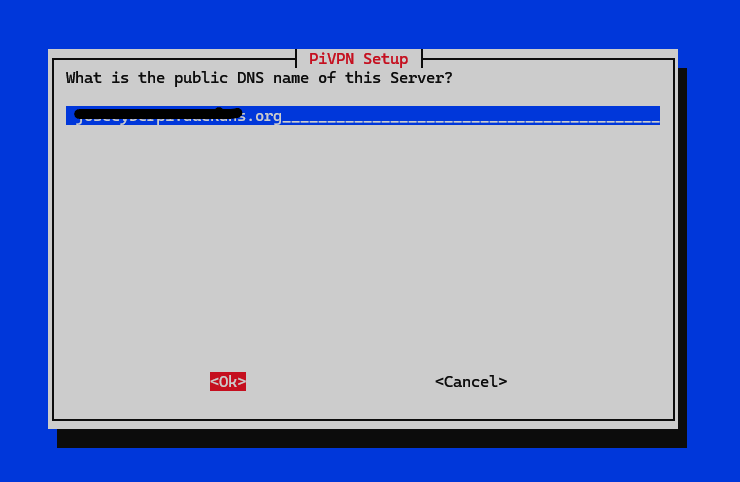
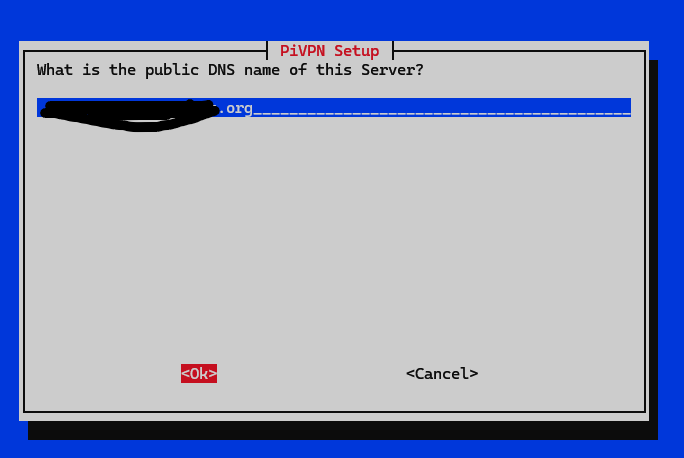
First-person voice pass on Pi-hole/WireGuard sections, fix DuckDNS screenshot redaction

Changed region(s): [[0.0307, 0.0917, 0.9825, 0.9782], [0.5833, 0.7642, 0.7061, 0.8253]]

diff --git a/README.md b/README.md
@@ -147,11 +147,11 @@ Also hit a gotcha with Imager's advanced settings. Current Raspberry Pi OS build
 
 ## Installing Pi-hole
 
-Connected over SSH and updated the system first:
+I connected over SSH and updated the system first:
 
 ![SSH in and update](screenshots/01-ssh-in-and-update.png)
 
-Ran Pi-hole's install script:
+I ran Pi-hole's install script:
 
 ```
 curl -sSL https://install.pi-hole.net | sudo bash
@@ -161,33 +161,33 @@ curl -sSL https://install.pi-hole.net | sudo bash
 
 ![Pi-hole welcome screen](screenshots/03-pihole-welcome.png)
 
-Picked Cloudflare as the upstream DNS:
+I picked Cloudflare as the upstream DNS:
 
 ![Choosing Cloudflare](screenshots/04-choosing-cloudflare.png)
 
-Left the default StevenBlack blocklist checked:
+I left the default StevenBlack blocklist checked:
 
 ![StevenBlack blocklist](screenshots/05-stevenblack-blocklist.png)
 
-Turned on query logging so I can actually watch DNS lookups happen instead of guessing:
+I turned on query logging so I can actually watch DNS lookups happen instead of guessing:
 
 ![Enable query logging](screenshots/06-enable-query-logging.png)
 
-Left privacy mode on "Show everything":
+I left privacy mode on "Show everything":
 
 ![Privacy mode](screenshots/07-privacy-mode.png)
 
-Installer picked up my network interface and IP, pulled Pi-hole's repos, installed FTL, landed on the login screen:
+The installer picked up my network interface and IP, pulled Pi-hole's repos, installed FTL, and landed on the login screen:
 
 ![Pi-hole login](screenshots/08-pihole-login.png)
 
-Pointed my PC's DNS at the Pi. Query log started filling up right away, some blocked, most just resolved normal.
+I pointed my PC's DNS at the Pi. Query log started filling up right away, some blocked, most just resolved normal.
 
-Pointed the router's DNS at the Pi too, not just my PC. Whole house is covered now.
+I pointed the router's DNS at the Pi too, not just my PC. Whole house is covered now.
 
 ## Setting up WireGuard
 
-Installed PiVPN to handle it:
+I installed PiVPN to handle it:
 
 ```
 curl -L https://install.pivpn.io | bash
@@ -195,27 +195,27 @@ curl -L https://install.pivpn.io | bash
 
 ![Installing WireGuard](screenshots/09-installing-wireguard.png)
 
-It asked if the Pi's IP was reserved through DHCP reservation on the router. Went looking on the Verizon admin page, the Devices menu only shows connection stats, no reservation option there. Skipped it since the Pi stays connected most of the time anyway.
+It asked if my Pi's IP was reserved through DHCP reservation on the router. I went looking on the Verizon admin page, the Devices menu only shows connection stats, no reservation option there. I skipped it since the Pi stays connected most of the time anyway.
 
 ![DHCP reservation prompt](screenshots/10-dhcp-reservation.png)
 
-Picked WireGuard over OpenVPN.
+I picked WireGuard over OpenVPN.
 
 ![Choosing WireGuard](screenshots/11-choose-wireguard.png)
 
-It found the Pi-hole install already on the box and asked if VPN clients should use it as DNS too. Said yes, so ad blocking still works on my phone when I'm connected remotely.
+It found the Pi-hole install already on the box and asked if VPN clients should use it as DNS too. I said yes, so ad blocking still works on my phone when I'm connected remotely.
 
 ![Pi-hole DNS for VPN clients](screenshots/12-pihole-dns-question.png)
 
-Asked whether clients connect using a public IP or a DNS name. Verizon residential doesn't hand out a static IP, so went with a DNS name instead.
+It asked whether clients connect using a public IP or a DNS name. My Verizon connection doesn't come with a fixed public IP, it can change on its own without me touching anything. So I went with a DNS name instead.
 
 ![Public IP or DNS name](screenshots/13-public-ip-or-dns.png)
 
-Set up a free DuckDNS address for that.
+I set up a free DuckDNS address for that. There's a small script running on the Pi that checks in with DuckDNS and tells it my current IP, so my phone can always find my house even if my IP changes, without me having to do anything.
 
 ![DuckDNS setup](screenshots/14-duckdns-setup.png)
 
-Turned on unattended security upgrades, since this Pi is reachable from outside now.
+I turned on unattended security upgrades, since this Pi is reachable from outside now.
 
 ![Unattended upgrades prompt](screenshots/15-unattended-upgrades.png)
 
